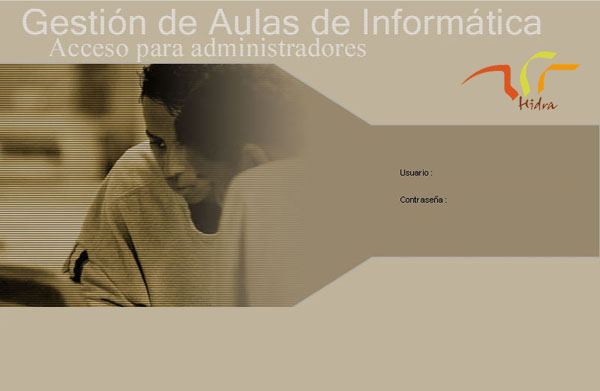
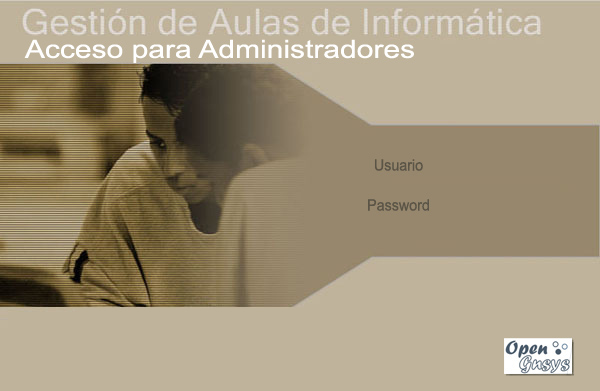
git-svn-id: https://opengnsys.es/svn/trunk@583 a21b9725-9963-47de-94b9-378ad31fedc9

diff --git a/admin/WebConsole/varios/menucliente.php b/admin/WebConsole/varios/menucliente.php
@@ -16,8 +16,26 @@ $cmd=CreaComando($cadenaconexion);
 if (!$cmd)
 	Header('Location: '.$pagerror.'?herror=2'); // Error de conexi�con servidor B.D.
 //________________________________________________________________________________________________________
+$ITEMS_PUBLICOS=1;
+$ITEMS_PRIVADOS=2;
 $iph="0.0.0.0";
+$tip=$ITEMS_PUBLICOS; // Tipo de items 1=Públicos 2=privados
+
 if (isset($_GET["iph"]))	$iph=$_GET["iph"]; 
+if (isset($_GET["tip"]))	$tip=$_GET["tip"]; 
+
+// Se asegura que la pagina se solicita desde la IP que viene
+global $HTTP_SERVER_VARS;
+if ($HTTP_SERVER_VARS["HTTP_X_FORWARDED_FOR"] != ""){
+	$ipcliente = $HTTP_SERVER_VARS["HTTP_X_FORWARDED_FOR"];
+}
+else{
+	$ipcliente = $HTTP_SERVER_VARS["REMOTE_ADDR"]; 
+}
+/*
+if($ipcliente!=$iph)
+	die("***ATENCION.- Usted no esta accediendo desde un ordenador permitido"); 
+*/
 //________________________________________________________________________________________________________
 $rsmenu=RecuperaMenu($cmd,$iph);	// Recupera un recordset con los datos del m en
 ?>
@@ -27,20 +45,36 @@ $rsmenu=RecuperaMenu($cmd,$iph);	// Recupera un recordset con los datos del m en
 	</HEAD>
 	<BODY>
 <?	
-$ITEMS_PUBLICOS=1;
-$ITEMS_PRIVADOS=2;
-
 if(!empty($rsmenu)){
-
- 	$_SESSION["widcentro"]=$rsmenu->campos["idcentro"]; 
- 	$codeHtml=GeneraMenu($rsmenu,$ITEMS_PUBLICOS,$iph); // Genera men pblico
-	echo $codeHtml;
+	switch($tip){
+		case $ITEMS_PUBLICOS:
+			if($rsmenu->campos["htmlmenupub"])
+				$codeHtml=$rsmenu->campos["htmlmenupub"];
+			else{
+				$_SESSION["widcentro"]=$rsmenu->campos["idcentro"]; 
+				$codeHtml=GeneraMenu($rsmenu,$ITEMS_PUBLICOS,$iph); // Genera men pblico
+			}
+			break;
+			
+		case $ITEMS_PRIVADOS:
+			if($rsmenu->campos["htmlmenupri"])
+				$codeHtml=$rsmenu->campos["htmlmenupri"];
+			else{
+				$_SESSION["widcentro"]=$rsmenu->campos["idcentro"]; 
+				$codeHtml=GeneraMenu($rsmenu,$ITEMS_PRIVADOS,$iph); // Genera men pblico
+			}
+			break;
+	}			
 }
-else
-	echo '<H1>NO SE HA DETEACTADO NINGÚN MENÚ PARA ESTE CLIENTE</H1>';	
+else{
+	$codeHtml='<P align=center>';
+	$codeHtml.='<SPAN style="COLOR: #999999;FONT-FAMILY: Arial, Helvetica, sans-serif;FONT-SIZE: 16px;">NO SE HA DETEACTADO NINGÚN MENÚ PARA ESTE CLIENTE</SPAN>';
+	$codeHtml.='</P>';
+}
+echo $codeHtml;
 ?>
-	</BODY>
-	</HTML>
+</BODY>
+</HTML>
 <?
 //___________________________________________________________________________________________________
 //
@@ -69,6 +103,7 @@ function RecuperaMenu($cmd,$iph){
 // Muestra el menu pblico
 //___________________________________________________________________________________________________
 function GeneraMenu($rs,$tipo,$iph){	
+	global $ITEMS_PUBLICOS;
 	global $ITEMS_PRIVADOS;
 
 	$titulo=$rs->campos["titulo"]; 
@@ -82,7 +117,12 @@ function GeneraMenu($rs,$tipo,$iph){
 	$resolucion=$rs->campos["resolucion"]; 
 	$htmlmenupub=$rs->campos["htmlmenupub"]; 
 	$htmlmenupri=$rs->campos["htmlmenupri"]; 
+			
 
+	$UrlPagina=$_SERVER['HTTP_HOST'].$_SERVER['PHP_SELF']; // Url página
+	$UrlPagina=dirname($UrlPagina);
+	$UrlPaginaIconos=dirname($UrlPagina)."/images/iconos";
+			
 	if($tipo==$ITEMS_PRIVADOS)
 		$mod=$smodalidad;
 	else
@@ -92,11 +132,13 @@ function GeneraMenu($rs,$tipo,$iph){
 	//	Genera HTML de la p�ina en funci� de las propiedades del Men del clioente
 	//$codeHTML.='<DIV style="POSITION:absolute;TOP:'.$coory."px;LEFT:".$coorx.'px">';
 
-	$codeHTML.='<P align=center>';
-	$codeHTML.='<SPAN style="COLOR: #999999;FONT-FAMILY: Arial, Helvetica, sans-serif;FONT-SIZE: 36px;">'.$titulo.'</SPAN>';
-	$codeHTML.='</P>';
+	$codeHTML.='<P align=left><IMG border=0 src="http://'.$UrlPaginaIconos.'/logoopengnsys.png" width=64><P>';
 	
-	$codeHTML.='<TABLE cellspacing=1 cellpadding=1 align="center" border=0 >';
+	$codeHTML.='<P align=center>';
+	$codeHTML.='<SPAN style="COLOR: #999999;FONT-FAMILY: Arial, Helvetica, sans-serif;FONT-SIZE: 20px;"><U>'.$titulo.'</U></SPAN>';
+	$codeHTML.='</BR>';
+	
+	$codeHTML.='<TABLE cellspacing=4 cellpadding=0 align="center" border=0 >';
 	$codeHTML.='<TR>';
 	$codeHTML.='<TD colspan="'.($mod*2).'" >&nbsp;</TD>';
 	$codeHTML.='</TR>';
@@ -115,12 +157,8 @@ function GeneraMenu($rs,$tipo,$iph){
 			if(empty($urlicono))
 				$urlicono="defaultitem.gif"; 
 
-			$UrlPagina=$_SERVER['HTTP_HOST'].$_SERVER['PHP_SELF']; // Url página
-			$UrlPagina=dirname($UrlPagina);
-			$UrlPaginaIconos=dirname($UrlPagina)."/images/iconos/";
-
-			$codeHTML.='<TD align=center><IMG src="http://'.$UrlPaginaIconos.$urlicono.'"></TD>';
-			$codeHTML.='<TD style="font-family:sans-serif;color: #a71026"><A href="ejecutaritem.php?iph='.$iph.'&idt='.$idaccionmenu.'">'.$descripitem.'</A></TD>';
+			$codeHTML.='<TD align=center><A href="ejecutaritem.php?iph='.$iph.'&idt='.$idaccionmenu.'"><IMG border=0 src="http://'.$UrlPaginaIconos.'/'.$urlicono.'" width=64></A></TD>';
+			$codeHTML.='<TD style="font-family:Arial;color: #a71026;FONT-SIZE:14"><A href="ejecutaritem.php?iph='.$iph.'&idt='.$idaccionmenu.'">'.$descripitem.'</A></TD>';
 			$c++;
 			if($c%$mod==0){
 				$codeHTML.='</TR>';
@@ -132,6 +170,19 @@ function GeneraMenu($rs,$tipo,$iph){
 	$codeHTML.='</TR>';
 	$rs->Cerrar();
 	$codeHTML.='</TABLE>';
+	$codeHTML.='</P>';
+	$codeHTML.='<BR><BR>';
+	$codeHTML.='<P align=center>';
+
+	switch($tipo){
+		case $ITEMS_PUBLICOS:
+			$codeHTML.='<A href="acceso_operador.php?iph='.$iph.'"><SPAN style="COLOR: blue;FONT-FAMILY: Arial, Helvetica, sans-serif;FONT-SIZE: 10px;">Administración</SPAN>';
+			break;
+		case $ITEMS_PRIVADOS:
+			$codeHTML.='<A href="menucliente.php?iph='.$iph.'"><SPAN style="COLOR: blue;FONT-FAMILY: Arial, Helvetica, sans-serif;FONT-SIZE: 10px;">Volver</SPAN>';
+			break;
+	}			
+	$codeHTML.='</P>';
 	//$codeHTML.='</DIV>';
 	return($codeHTML);
 }

diff --git a/admin/WebConsole/varios/acceso_operador.php b/admin/WebConsole/varios/acceso_operador.php
@@ -6,18 +6,29 @@
 // Fecha Creación: Diciembre-2003
 // Fecha Última modificación: Febrero-2005
 // Nombre del fichero: acceso.php
-// Descripción : Presenta la pantalla de login de la aplicación
+// Descripción : Presenta la pantalla de login del operador
 // *************************************************************************************************************************************************
+
+session_start(); // Activa variables de sesi�
+
 $herror=0;
+$iph="";
 if (isset($_GET["herror"])) $herror=$_GET["herror"]; 
 if (isset($_POST["herror"])) $herror=$_POST["herror"]; 
+if (isset($_GET["iph"])) $iph=$_GET["iph"]; 
+
+$ITEMS_PUBLICOS=1;
+$ITEMS_PRIVADOS=2;
+if (isset($_SESSION["swop"])){
+	// Acceso al menu de adminitración del aula
+	$wurl="menucliente.php?iph=".$iph."&tip=".$ITEMS_PRIVADOS;
+	Header('Location:'.$wurl); 
+}
 
 $TbErr=array();
 $TbErr[0]="SIN ERRORES";
-$TbErr[1]="ATENCIÓN: Debe acceder a la aplicación a través de la pagina inicial";
-$TbErr[2]="ATENCIÓN: La Aplicación no tiene acceso al Servidor de Bases de Datos";
-$TbErr[3]="ATENCIÓN: Existen problemas para recuperar el registro, puede que haya sido eliminado";
-$TbErr[4]="ATENCIÓN: Usted no tiene acceso a esta aplicación";
+$TbErr[1]="ATENCIÓN: Usted no tiene acceso al menú de administración";
+$TbErr[2]="ERROR de conexión con el servidor de datos";
 //________________________________________________________________________________________________________
 ?>
 <HTML>
@@ -64,21 +75,18 @@ function PulsaEnter(oEvento){
 </SCRIPT>
 </HEAD>
 <BODY>
-<DIV style="POSITION:absolute;top:90;left:250">
-	<FORM action="controlacceso.php" name="fdatos" method="post">
+<DIV style="POSITION:absolute;top:20;left:150">
+	<FORM action="accesoperadores.php" name="fdatos" method="post">
+		<INPUT name="iph" type="hidden" value="<? echo $iph?>">
 		<DIV align="center">
-			<IMG src="./images/login_esp.jpg" width=500 >
+			<IMG src="../images/login_operador.png" width=500 >
 			<INPUT onkeypress="PulsaEnter(event)" name="usu"  style="POSITION:absolute;top:125px;left:365px;width:90;height:20;COLOR: #999999; FONT-FAMILY: Verdana; FONT-SIZE: 12px;">
 			<INPUT onkeypress="PulsaEnter(event)"  name="pss" type="password"  style="POSITION:absolute;top:160px;left:365;width:90;height:20;COLOR: #999999; FONT-FAMILY: Verdana; FONT-SIZE: 12px;">
-			<IMG onclick="confirmar()" src="./images/botonok.gif" style="POSITION:absolute;top:190;left:400;CURSOR: hand">
+			<IMG onclick="confirmar()" src="../images/botonok.png" style="POSITION:absolute;top:190;left:400;CURSOR: hand">
 		</DIV>
 	</FORM>
 </DIV>
 <?
-//________________________________________________________________________________________________________
-echo '<DIV  style="POSITION: absolute;LEFT: 20px;TOP:300px;visibility:hidden" height=300 width=300>';
-echo '<IFRAME scrolling=yes height=300 width=310 id="iframes_comodin" src="./nada.php"></IFRAME>';
-echo '</DIV>';
 //________________________________________________________________________________________________________
 // Posiciona cursor en campo usuario y muestra mensaje de error si lo hubiera
 echo '<SCRIPT LANGUAGE="javascript">';

diff --git a/admin/WebConsole/varios/accesoperadores.php b/admin/WebConsole/varios/accesoperadores.php
@@ -1,0 +1,51 @@
+<? 
+// ********************************************************************
+// Aplicación WEB: ogAdmWebCon 
+// Autor: José Manuel Alonso (E.T.S.I.I.) Universidad de Sevilla 
+// Fecha Creación: Diciembre-2003 
+// Fecha Última modificación: Febrero-2005 
+// Nombre del fichero: controlacceso.php 
+// Descripción :Este fichero implementa el control de acceso de los operadores de aula
+// *********************************************************************
+include_once("../includes/ctrlacc.php");
+include_once("../clases/AdoPhp.php");
+include_once("../includes/constantes.php");
+include_once("../includes/CreaComando.php");
+  
+$usu=""; 
+$pss=""; 
+$iph=""; // Switch menu cliente 
+  
+if (isset($_POST["usu"])) $usu=$_POST["usu"];  
+if (isset($_POST["pss"])) $pss=$_POST["pss"];  
+if (isset($_POST["iph"])) $iph=$_POST["iph"];  
+
+$cmd=CreaComando($cadenaconexion);
+if (!$cmd)
+	Header('Location:acceso_operador.php?herror=2'); // Error de conexióncon servidor B.D.
+
+$ITEMS_PUBLICOS=1;
+$ITEMS_PRIVADOS=2;
+
+// COntrol de acceso del usuario
+$rs=new Recordset;  
+  
+$cmd->texto="SELECT idusuario,idtipousuario,idambito FROM usuarios WHERE usuario='".$usu."' AND pasguor='".$pss."'"; 
+$rs->Comando=&$cmd; 
+if (!$rs->Abrir()){
+	Header('Location:acceso_operador.php?herror=2'); // Error de conexióncon servidor B.D. 
+	exit;
+}
+if ($rs->EOF){
+	Header('Location:acceso_operador.php?herror=1'); // Error de acceso, no existe usuario
+	exit;
+}
+if($idcentro!=$rs->campos["idambito"] && $rs->campos["idtipousuario"]!=1 ){
+	Header('Location:acceso_operador.php?herror=1'); // Error de acceso, el usuario no pertenece al Centro
+	exit;
+}
+// Acceso al menu de adminitración del aula
+$wurl="menucliente.php?iph=".$iph."&tip=".$ITEMS_PRIVADOS;
+$_SESSION["swop"]=$usu; 
+Header('Location:'.$wurl); 
+exit;

diff --git a/admin/WebConsole/controlacceso.php b/admin/WebConsole/controlacceso.php
@@ -22,7 +22,7 @@
  if (isset($_POST["usu"])) $usu=$_POST["usu"];  
  if (isset($_POST["pss"])) $pss=$_POST["pss"];  
  if (isset($_GET["iph"])) $iph=$_GET["iph"];  
-  
+ /* 
  //======================================================================================================== 
  // Variables de sessión de configuración de servidor y base de datos( Modificar aquípara cambio global)  
  $cnx="localhost;usuog;passusuog;ogBDAdmin;mysql"; // Cadena de conexión a la base de datos 
@@ -31,15 +31,15 @@
  $wer="OPENGNSYSURL/pagerror.php"; // Página de redireccionamiento de errores 
  $wac="OPENGNSYSURL/acceso.php"; // Página de login de la aplicación 
  //======================================================================================================== 
-/* 
+*/ 
  //======================================================================================================== 
  // Variables de sessión de configuración de servidor y base de datos( Modificar aquípara cambio global)  
  $cnx="localhost;usuog;passusuog;ogBDAdmin;mysql"; // Cadena de conexión a la base de datos 
- $ips="10.1.15.3"; // IP del servidor de Administración 
+ $ips="192.168.0.49"; // IP del servidor de Administración 
  $prt="2008"; // Puerto de comunicación con el servidor 
  $wer="http://localhost/WebConsole/pagerror.php"; // Página de redireccionamiento de errores 
  $wac="http://localhost/WebConsole/acceso.php"; // Página de login de la aplicación 
- */ 
+
  //======================================================================================================== 
  $cmd=CreaComando($cnx); // Crea objeto comando 
  $resul=false; 

diff --git a/admin/WebConsole/propiedades/propiedades_menus.php b/admin/WebConsole/propiedades/propiedades_menus.php
@@ -148,9 +148,10 @@ if  ($opcion!=$op_alta){
 		<TR>
 			<TH align=center>&nbsp; <?echo $TbMsg[15]?>&nbsp;</TH>
 			<?if ($opcion==$op_eliminacion)
-				echo '<TD colspan=5 style="width:350">'.$htmlmenupub.'</TD>';
+					echo '<TD colspan=5 style="width:350">'.$htmlmenupub.'</TD>';
 				else
-					echo '<TD colspan=5><INPUT  class="formulariodatos" name=htmlmenupub style="width:350" type=text value="'.$htmlmenupub.'"></TD>';?>
+					echo '<TD colspan=5 ><TEXTAREA   class="formulariodatos" name=htmlmenupub rows=5 cols=70>'.$htmlmenupub.'</TEXTAREA></TD>';
+			?>
 		</TR>
 <!------------------------------------------------------------------------------------------------------------------------------------------------------------------------------------->
 		<TR>
@@ -188,9 +189,10 @@ if  ($opcion!=$op_alta){
 		<TR>
 			<TH align=center>&nbsp; <?echo $TbMsg[16]?>&nbsp;</TH>
 			<?if ($opcion==$op_eliminacion)
-				echo '<TD colspan=5 style="width:350">'.$htmlmenupri.'</TD>';
+					echo '<TD colspan=5 style="width:350">'.$htmlmenupri.'</TD>';
 				else
-					echo '<TD colspan=5><INPUT  class="formulariodatos" name=htmlmenupri style="width:350" type=text value="'.$htmlmenupri.'"></TD>';?>
+					echo '<TD colspan=5 ><TEXTAREA   class="formulariodatos" name=htmlmenupri rows=5 cols=70>'.$htmlmenupri.'</TEXTAREA></TD>';
+			?>
 		</TR>
 <!------------------------------------------------------------------------------------------------------------------------------------------------------------------------------------->
 	</TABLE>

diff --git a/admin/WebConsole/idiomas/php/esp/accionmenu_esp.php b/admin/WebConsole/idiomas/php/esp/accionmenu_esp.php
@@ -11,7 +11,7 @@
 	$TbMsg[3]='Tarea';
 	$TbMsg[4]='Trabajos';
 	$TbMsg[5]='Público';
-	$TbMsg[6]='Private';
+	$TbMsg[6]='Privado';
 	$TbMsg[7]='Items públicos ';
 	$TbMsg[8]='Items privados ';
 	$TbMsg[9]='Nombre del Menu';
